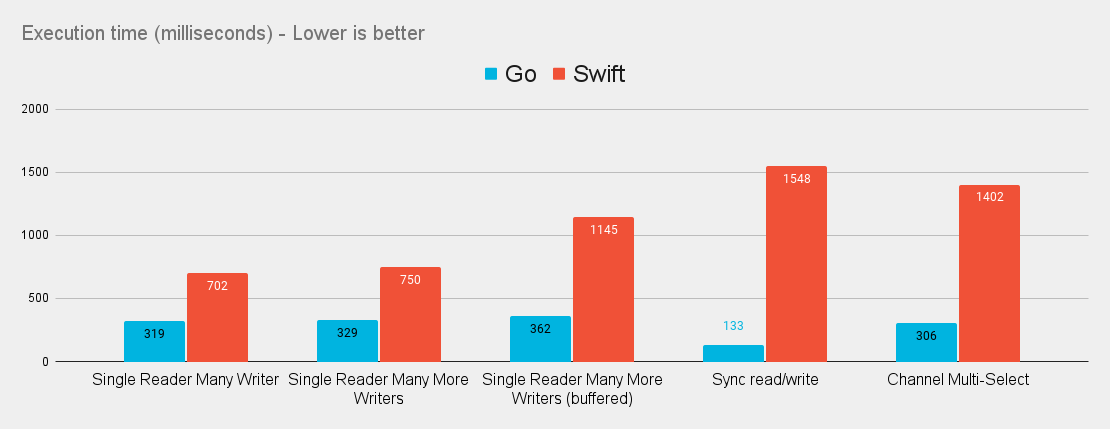
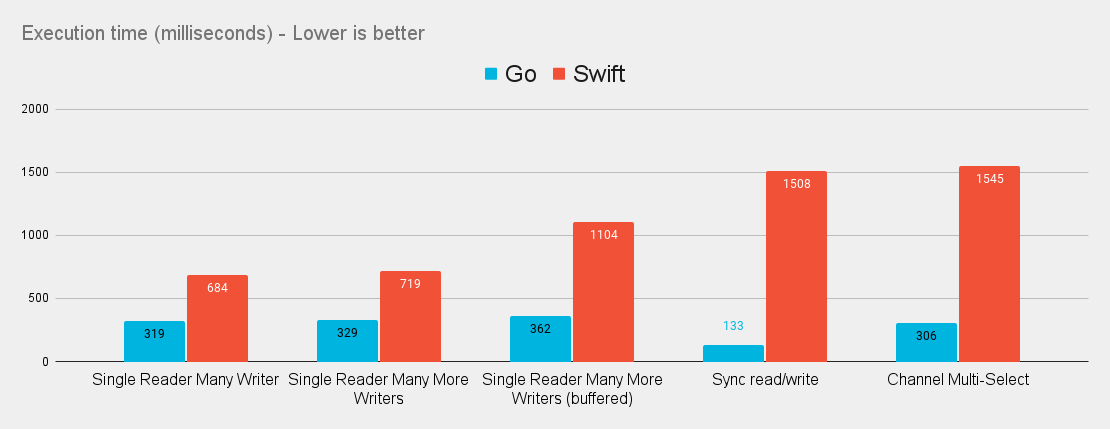
Benchmark multiple types

diff --git a/Benchmarks/Sources/Benchmarks/main.swift b/Benchmarks/Sources/Benchmarks/main.swift
@@ -6,23 +6,65 @@ import AsyncAlgorithms
 
 let iterations = 10
 
-await run()
-await runAsyncAlg()
 
-func run() async {
-    await testSingleReaderManyWriter()
-    await testHighConcurrency()
-    await testHighConcurrencyBuffered()
-    await testSyncRw()
-    await testSelect()
+protocol Initializable {
+    init()
 }
 
-func runAsyncAlg() async {
-    await testAsyncAlgSingleReaderManyWriter()
-    await testAsyncAlgSingleHighConcurrency()
+extension Int : Initializable {}
+extension String : Initializable {
+    init() {
+        self.init("My test string for benchmarking")
+    }
 }
 
-func timeIt(iterations: Int, block: () async -> ()) async {
+struct ValueData: Initializable {
+    let foo: String
+    let bar: Int
+    init() {
+        foo = "My test string for benchmarking"
+        bar = 1234
+    }
+}
+
+class RefData: Initializable {
+    let foo: String
+    let bar: Int
+    required init() {
+        foo = "My test string for benchmarking"
+        bar = 1234
+    }
+}
+
+// MARK: Run Tests
+
+print("Starting benchmarks with \(iterations) rounds")
+
+await run(Int.self)
+await run(String.self)
+await run(ValueData.self)
+await run(RefData.self)
+
+await runAsyncAlg(Int.self)
+await runAsyncAlg(String.self)
+await runAsyncAlg(ValueData.self)
+await runAsyncAlg(RefData.self)
+
+
+func run<T: Initializable>(_ type: T.Type) async {
+    print(await testSingleReaderManyWriter(type))
+    print(await testHighConcurrency(type))
+    print(await testHighConcurrencyBuffered(type))
+    print(await testSyncRw(type))
+    print(await testSelect(type))
+}
+
+func runAsyncAlg<T: Initializable>(_ type: T.Type) async {
+    print(await testAsyncAlgSingleReaderManyWriter(type))
+    print(await testAsyncAlgSingleHighConcurrency(type))
+}
+
+func timeIt(iterations: Int, block: () async -> ()) async -> Double {
     var sum: CFAbsoluteTime = 0
     for _ in 0..<iterations {
         let startTime = CFAbsoluteTimeGetCurrent()
@@ -30,98 +72,100 @@ func timeIt(iterations: Int, block: () async -> ()) async {
         let timeElapsed = CFAbsoluteTimeGetCurrent() - startTime
         sum += timeElapsed
     }
-    print("Time elapsed: \(sum / Double(iterations))")
+    return sum / Double(iterations)
     
 }
 
-func testSingleReaderManyWriter() async {
-    print(#function)
-    await timeIt(iterations: iterations) {
-        let a = Channel<Int>()
+func testSingleReaderManyWriter<T: Initializable>(_ type: T.Type) async -> (String, Double) {
+    let result = await timeIt(iterations: iterations) {
+        let a = Channel<T>()
         var sum = 0
         
         for _ in (0..<100) {
             Task {
                 for _ in (0..<10000) {
-                    await a <- 1
+                    await a <- T()
                 }
             }
         }
         
         while sum < 1_000_000 {
-            sum += (await <-a)!
+            await <-a
+            sum += 1
         }
     }
+    return ("\(#function) \(T.self)", result)
 }
 
-func testHighConcurrency() async {
-    print(#function)
-    await timeIt(iterations: iterations) {
-        let a = Channel<Int>()
+func testHighConcurrency<T: Initializable>(_ type: T.Type) async -> (String, Double) {
+    let result = await timeIt(iterations: iterations) {
+        let a = Channel<T>()
         var sum = 0
         
         for _ in (0..<1000) {
             Task {
                 for _ in (0..<1000) {
-                    await a <- 1
+                    await a <- T()
                 }
             }
         }
         
         while sum < 1_000_000 {
-            sum += (await <-a)!
+            await <-a
+            sum += 1
         }
     }
+    return ("\(#function) \(T.self)", result)
 }
 
-func testHighConcurrencyBuffered() async {
-    print(#function)
-    await timeIt(iterations: iterations) {
-        let a = Channel<Int>(capacity: 20)
+func testHighConcurrencyBuffered<T: Initializable>(_ type: T.Type) async -> (String, Double) {
+    let result = await timeIt(iterations: iterations) {
+        let a = Channel<T>(capacity: 20)
         var sum = 0
         
         for _ in (0..<1000) {
             Task {
                 for _ in (0..<1000) {
-                    await a <- 1
+                    await a <- T()
                 }
             }
         }
         
         while sum < 1_000_000 {
-            sum += (await <-a)!
+            await <-a
+            sum += 1
         }
     }
+    return ("\(#function) \(T.self)", result)
 }
 
-func testSyncRw() async {
-    print(#function)
-    await timeIt(iterations: iterations) {
-        let a = Channel<Int>(capacity: 1)
+func testSyncRw<T: Initializable>(_ type: T.Type) async -> (String, Double) {
+    let result = await timeIt(iterations: iterations) {
+        let a = Channel<T>(capacity: 1)
         
-        for i in (0..<5_000_000) {
-            await a <- i
+        for _ in (0..<5_000_000) {
+            await a <- T()
             await <-a
         }
     }
+    return ("\(#function) \(T.self)", result)
 }
 
 
 
-func testSelect() async {
-    print(#function)
-    await timeIt(iterations: iterations) {
-        let a = Channel<Int>()
-        let b = Channel<Int>()
-        let c = Channel<Int>()
-        let d = Channel<Int>()
-        let e = Channel<Int>()
-        let f = Channel<Int>()
+func testSelect<T: Initializable>(_ type: T.Type) async -> (String, Double) {
+    let result = await timeIt(iterations: iterations) {
+        let a = Channel<T>()
+        let b = Channel<T>()
+        let c = Channel<T>()
+        let d = Channel<T>()
+        let e = Channel<T>()
+        let f = Channel<T>()
         
         for chan in [a, b, c, d, e, f] {
             Task {
                 for _ in (0..<100_000) {
-                    await chan <- 1
+                    await chan <- T()
                 }
             }
         }
@@ -131,34 +175,34 @@ func testSelect() async {
         while sum < 6 * 100_000 {
             await select {
                 rx(a) {
-                    sum += $0!
+                    sum += 1
                 }
                 rx(b) {
-                    sum += $0!
+                    sum += 1
                 }
                 rx(c) {
-                    sum += $0!
+                    sum += 1
                 }
                 rx(d) {
-                    sum += $0!
+                    sum += 1
                 }
                 rx(e) {
-                    sum += $0!
+                    sum += 1
                 }
                 rx(f) {
-                    sum += $0!
+                    sum += 1
                 }
             }
         }
     }
+    return ("\(#function) \(T.self)", result)
 }
 
 
 // Compare to async algorithms channels
 
-func testAsyncAlgSingleReaderManyWriter() async {
-    print(#function)
-    await timeIt(iterations: iterations) {
+func testAsyncAlgSingleReaderManyWriter<T: Initializable>(_ type: T.Type) async -> (String, Double) {
+    let result = await timeIt(iterations: iterations) {
         let a = AsyncChannel<Int>()
         var sum = 0
         
@@ -177,11 +221,11 @@ func testAsyncAlgSingleReaderManyWriter() async {
             }
         }
     }
+    return ("\(#function) \(T.self)", result)
 }
 
-func testAsyncAlgSingleHighConcurrency() async {
-    print(#function)
-    await timeIt(iterations: iterations) {
+func testAsyncAlgSingleHighConcurrency<T: Initializable>(_ type: T.Type) async -> (String, Double) {
+    let result = await timeIt(iterations: iterations) {
         let a = AsyncChannel<Int>()
         var sum = 0
         
@@ -200,4 +244,5 @@ func testAsyncAlgSingleHighConcurrency() async {
             }
         }
     }
+    return ("\(#function) \(T.self)", result)
 }

diff --git a/Benchmarks/Readme.md b/Benchmarks/Readme.md
@@ -10,13 +10,58 @@ All tests performed on an M1 max
 
 ## Swift vs Go
 
+(Integer input only)
+
 | Test Case  | Go (seconds) | Swift (seconds) | Swift `n` times slower than go  |
 | --------------------------- | ----------- | ----------- | ----- |
-| testSingleReaderManyWriter  | `0.318661688` | `0.702384305` | `2.20x`  |
-| testHighConcurrency         | `0.328830854` | `0.7504368067` | `2.28x`  |
-| testHighConcurrencyBuffered | `0.362022931` | `1.144838405` | `3.16x`  |
-| testSyncRw                  | `0.132789557` | `1.547898102` | `11.66x` |
-| testSelect                  | `0.306248166` | `1.401787996` | `4.58x`  |
+| testSingleReaderManyWriter  | `0.318661688` | `0.702384305` | `2.15x`  |
+| testHighConcurrency         | `0.328830854` | `0.7504368067` | `2.19x`  |
+| testHighConcurrencyBuffered | `0.362022931` | `1.144838405` | `3.05x`  |
+| testSyncRw                  | `0.132789557` | `1.547898102` | `11.36x` |
+| testSelect                  | `0.306248166` | `1.401787996` | `5.05x`  |
+
+### Raw results 
+
+The below results are from running the whole benchmark suit which covers multiple data types. 
+
+
+```
+("testSingleReaderManyWriter(_:) Int", 0.6841711044311524)
+("testHighConcurrency(_:) Int", 0.7190240025520325)
+("testHighConcurrencyBuffered(_:) Int", 1.103571593761444)
+("testSyncRw(_:) Int", 1.5079661011695862)
+("testSelect(_:) Int", 1.54532790184021)
+
+("testSingleReaderManyWriter(_:) String", 0.8109323024749756)
+("testHighConcurrency(_:) String", 0.8379721999168396)
+("testHighConcurrencyBuffered(_:) String", 1.1374988079071044)
+("testSyncRw(_:) String", 1.7057185053825379)
+("testSelect(_:) String", 1.5620223045349122)
+
+("testSingleReaderManyWriter(_:) ValueData", 0.7498844027519226)
+("testHighConcurrency(_:) ValueData", 0.7715810060501098)
+("testHighConcurrencyBuffered(_:) ValueData", 1.1586477041244507)
+("testSyncRw(_:) ValueData", 1.517892301082611)
+("testSelect(_:) ValueData", 1.5599609017372131)
+
+("testSingleReaderManyWriter(_:) RefData", 0.8706925988197327)
+("testHighConcurrency(_:) RefData", 0.9256610989570617)
+("testHighConcurrencyBuffered(_:) RefData", 1.186893892288208)
+("testSyncRw(_:) RefData", 1.6812219023704529)
+("testSelect(_:) RefData", 1.5434199810028075)
+
+("testAsyncAlgSingleReaderManyWriter(_:) Int", 5.4360926985740665)
+("testAsyncAlgSingleHighConcurrency(_:) Int", 7.373045003414154)
+
+("testAsyncAlgSingleReaderManyWriter(_:) String", 5.395480096340179)
+("testAsyncAlgSingleHighConcurrency(_:) String", 7.339814698696136)
+
+("testAsyncAlgSingleReaderManyWriter(_:) ValueData", 5.392919993400573)
+("testAsyncAlgSingleHighConcurrency(_:) ValueData", 7.33357390165329)
+
+("testAsyncAlgSingleReaderManyWriter(_:) RefData", 5.391775095462799)
+("testAsyncAlgSingleHighConcurrency(_:) RefData", 7.327817296981811)
+```
 
 ## Async Channels vs Async Algorithms AsyncChannel
 
@@ -38,3 +83,4 @@ Aside from the above limitations, special care has been taken to use efficient l
 ## Future work
 
 This has not yet been benchmarked on linux. Linux uses `pthread_mutex_t` so expect results to differ somewhat. 
+

diff --git a/README.md b/README.md
@@ -36,7 +36,7 @@ await <-done
 ### This library vs equivalent [go code](/Benchmarks/golang/benchmark_test.go)
 ![Swift vs Go](media/swift-vs-go.png)
 
-It's not as fast as go - but it's still pretty fast!
+Obviously being as fast as go is a lofty goal that we may never reach, but it's still pretty fast!
 
 ### This Library vs [Apple's Async Algorithms channel implementation](https://github.com/apple/swift-async-algorithms/blob/main/Sources/AsyncAlgorithms/AsyncAlgorithms.docc/Guides/Channel.md)
 ![Swift vs Go](media/vs-async-alg.png)
